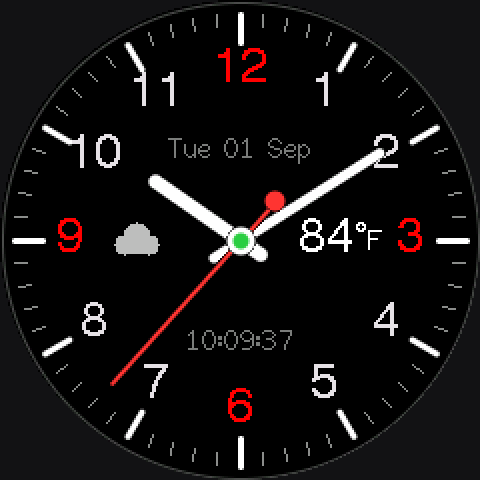
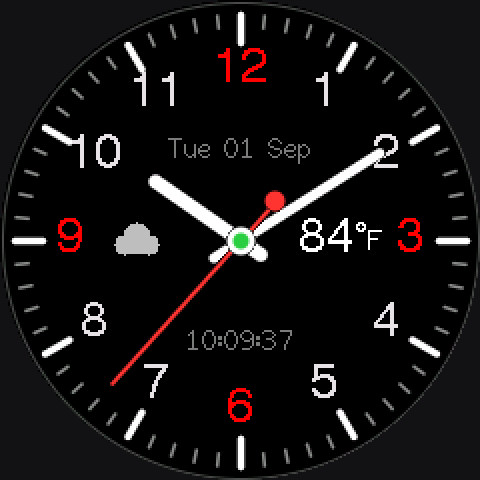
faces: the native font on the dials, and two legibility fixes
California, classic and default put their numerals in font 9, and the word
clock uses the real bold for a lit letter and the regular for a dormant
one. That last replaces a hack: with no bold available it had been drawing
each lit letter twice, a pixel apart, to fake the weight.

The numerals come out about a third smaller than font 4 doubled, since the
new face is 34 px native against 52 px scaled. The weight carries them, and
they are crisp rather than interpolated.

Two things that were hard to read:

The default face drew its 48 minute ticks as single logical pixels, which
on a 466 px panel is thin enough that the anti-aliasing has almost nothing
to work with and the track reads as stepped. Both sets are wide lines now,
as on the california dial.

The classic face's night seconds hand sat at 1.2:1 against the sub-dial
numerals it crosses - close enough in luminance to disappear into them. It
takes the same pale steel as the hour and minute hands now, which is 2.2:1,
matching what the daylight theme already had. Only the night palette
changes; by day a paler seconds hand still separates from the printing.

diff --git a/src/faces/face_default.cpp b/src/faces/face_default.cpp
@@ -70,11 +70,13 @@ static void drawDial(GFX &g)
 {
     g.drawSmoothCircle(CX, CY, R, C_RING, C_FACE);
 
-    // Anti-alias the 12 hour ticks; the 48 minute ticks are plain lines.
+    // Both sets drawn as wide lines. drawLine() is a single logical pixel,
+    // which on the 466 px panel is thin enough that its anti-aliasing has
+    // almost nothing to work with and the minute track reads as stepped.
     for (int i = 0; i < 60; i++) {
         const Tick &t = ticks[i];
-        if (t.hour) g.drawWideLine(t.x0, t.y0, t.x1, t.y1, 3.0f, C_TICK_HR, C_FACE);
-        else        g.drawLine(t.x0, t.y0, t.x1, t.y1, C_TICK);
+        if (t.hour) g.drawWideLine(t.x0, t.y0, t.x1, t.y1, 3.5f, C_TICK_HR, C_FACE);
+        else        g.drawWideLine(t.x0, t.y0, t.x1, t.y1, 1.6f, C_TICK,    C_FACE);
     }
 
     g.setTextDatum(MC_DATUM);
@@ -82,7 +84,10 @@ static void drawDial(GFX &g)
         uint8_t n = numerals[i].n;
         // n % 3 == 0 picks out exactly 3, 6, 9 and 12
         g.setTextColor((n % 3 == 0) ? C_NUM_MAJOR : C_NUM, C_FACE);
-        g.drawNumber(n, numerals[i].x, numerals[i].y, 4);
+        // Font 9: FreeSans Bold at the panel's own resolution rather than a
+        // 26 px bitmap doubled. Smaller on the dial than font 4 was, but the
+        // weight carries it and the edges are actually crisp.
+        g.drawNumber(n, numerals[i].x, numerals[i].y, 9);
     }
 }
 
@@ -103,7 +108,7 @@ static void drawWeather(GFX &g)
     int left = TEMP_X - (tw + 11) / 2;
 
     g.setTextDatum(ML_DATUM);
-    g.drawString(buf, left, CY, 4);
+    g.drawString(buf, left, CY, 9);
     if (wxValid) {
         g.drawCircle(left + tw + 3, CY - 7, 2, C_TEMP);
         g.drawString(wxUnit(), left + tw + 7, CY, 2);

diff --git a/src/faces/face_classic.cpp b/src/faces/face_classic.cpp
@@ -53,7 +53,12 @@ static const Palette NIGHT = {
     0xC618,   // printing in warm grey, not white: white glares at night
     0x8C51,   // sub-dial numerals, dimmer again
     0xAEBC,   // hands in pale steel so they read against the dark dial
-    0x7BCF,   // seconds still a step down from the main hands
+    // The seconds hand takes the same pale steel at night rather than a step
+    // down from it. The dimmer shade sat at 1.2:1 against the sub-dial
+    // numerals it crosses - close enough in luminance to vanish into them.
+    // By day the dial is light and a paler seconds hand still separates from
+    // the printing, so only the night theme changes.
+    0xAEBC,   // seconds: the same steel as the hands
     0x2945,   // date window barely lighter than the dial
     0xE71C
 };
@@ -147,7 +152,9 @@ static void drawDial(GFX &g)
     for (int i = 0; i < 12; i++) {
         int n = i == 0 ? 12 : i;
         if (n == 3 || n == 6) continue;
-        g.drawString(ROMAN[n - 1], numPos[i].x, numPos[i].y, 4);
+        // Font 9, drawn natively - see the default face. A dress dial lives
+        // or dies on its numerals, so they are the type worth the flash.
+        g.drawString(ROMAN[n - 1], numPos[i].x, numPos[i].y, 9);
     }
 }
 

diff --git a/src/faces/face_word.cpp b/src/faces/face_word.cpp
@@ -171,12 +171,11 @@ static void render(GFX &g, const struct tm &t, float subSec)
             bool on = lit[r * COLS + c];
             g.setTextColor(on ? (timeValid ? C_ON : C_WARN) : C_OFF, C_BG);
             char s[2] = { GRID[r][c], 0 };
-            // Font 4 rather than 2, and lit letters are drawn twice with a
-            // one-pixel offset to fake a bold weight - the built-in fonts
-            // have no bold, and the lit phrase needs to separate clearly
-            // from the dormant grid.
-            g.drawString(s, x, y, 4);
-            if (on) g.drawString(s, x + 1, y, 4);
+            // A lit letter is drawn in the real bold face and a dormant one
+            // in the regular, which separates the phrase from the grid far
+            // better than the old trick of drawing font 4 twice a pixel
+            // apart - and being native to the panel, both are crisp.
+            g.drawString(s, x, y, on ? 9 : 8);
         }
     }
 

diff --git a/src/faces/face_california.cpp b/src/faces/face_california.cpp
@@ -103,7 +103,10 @@ static void drawDial(GFX &g)
     g.setTextColor(C_INK, C_DIAL);
     for (int i = 0; i < 12; i++) {
         if (MARKS[i]) {
-            g.drawString(MARKS[i], numPos[i].x, numPos[i].y, 4);
+            // Font 8: FreeSans at the panel's own resolution, rather than a
+            // 26 px bitmap doubled. The numerals are the whole character of
+            // this dial, so they are the thing worth spending the flash on.
+            g.drawString(MARKS[i], numPos[i].x, numPos[i].y, 9);
             continue;
         }
         if (i == 0) continue;                     // 12 is the triangle, below
